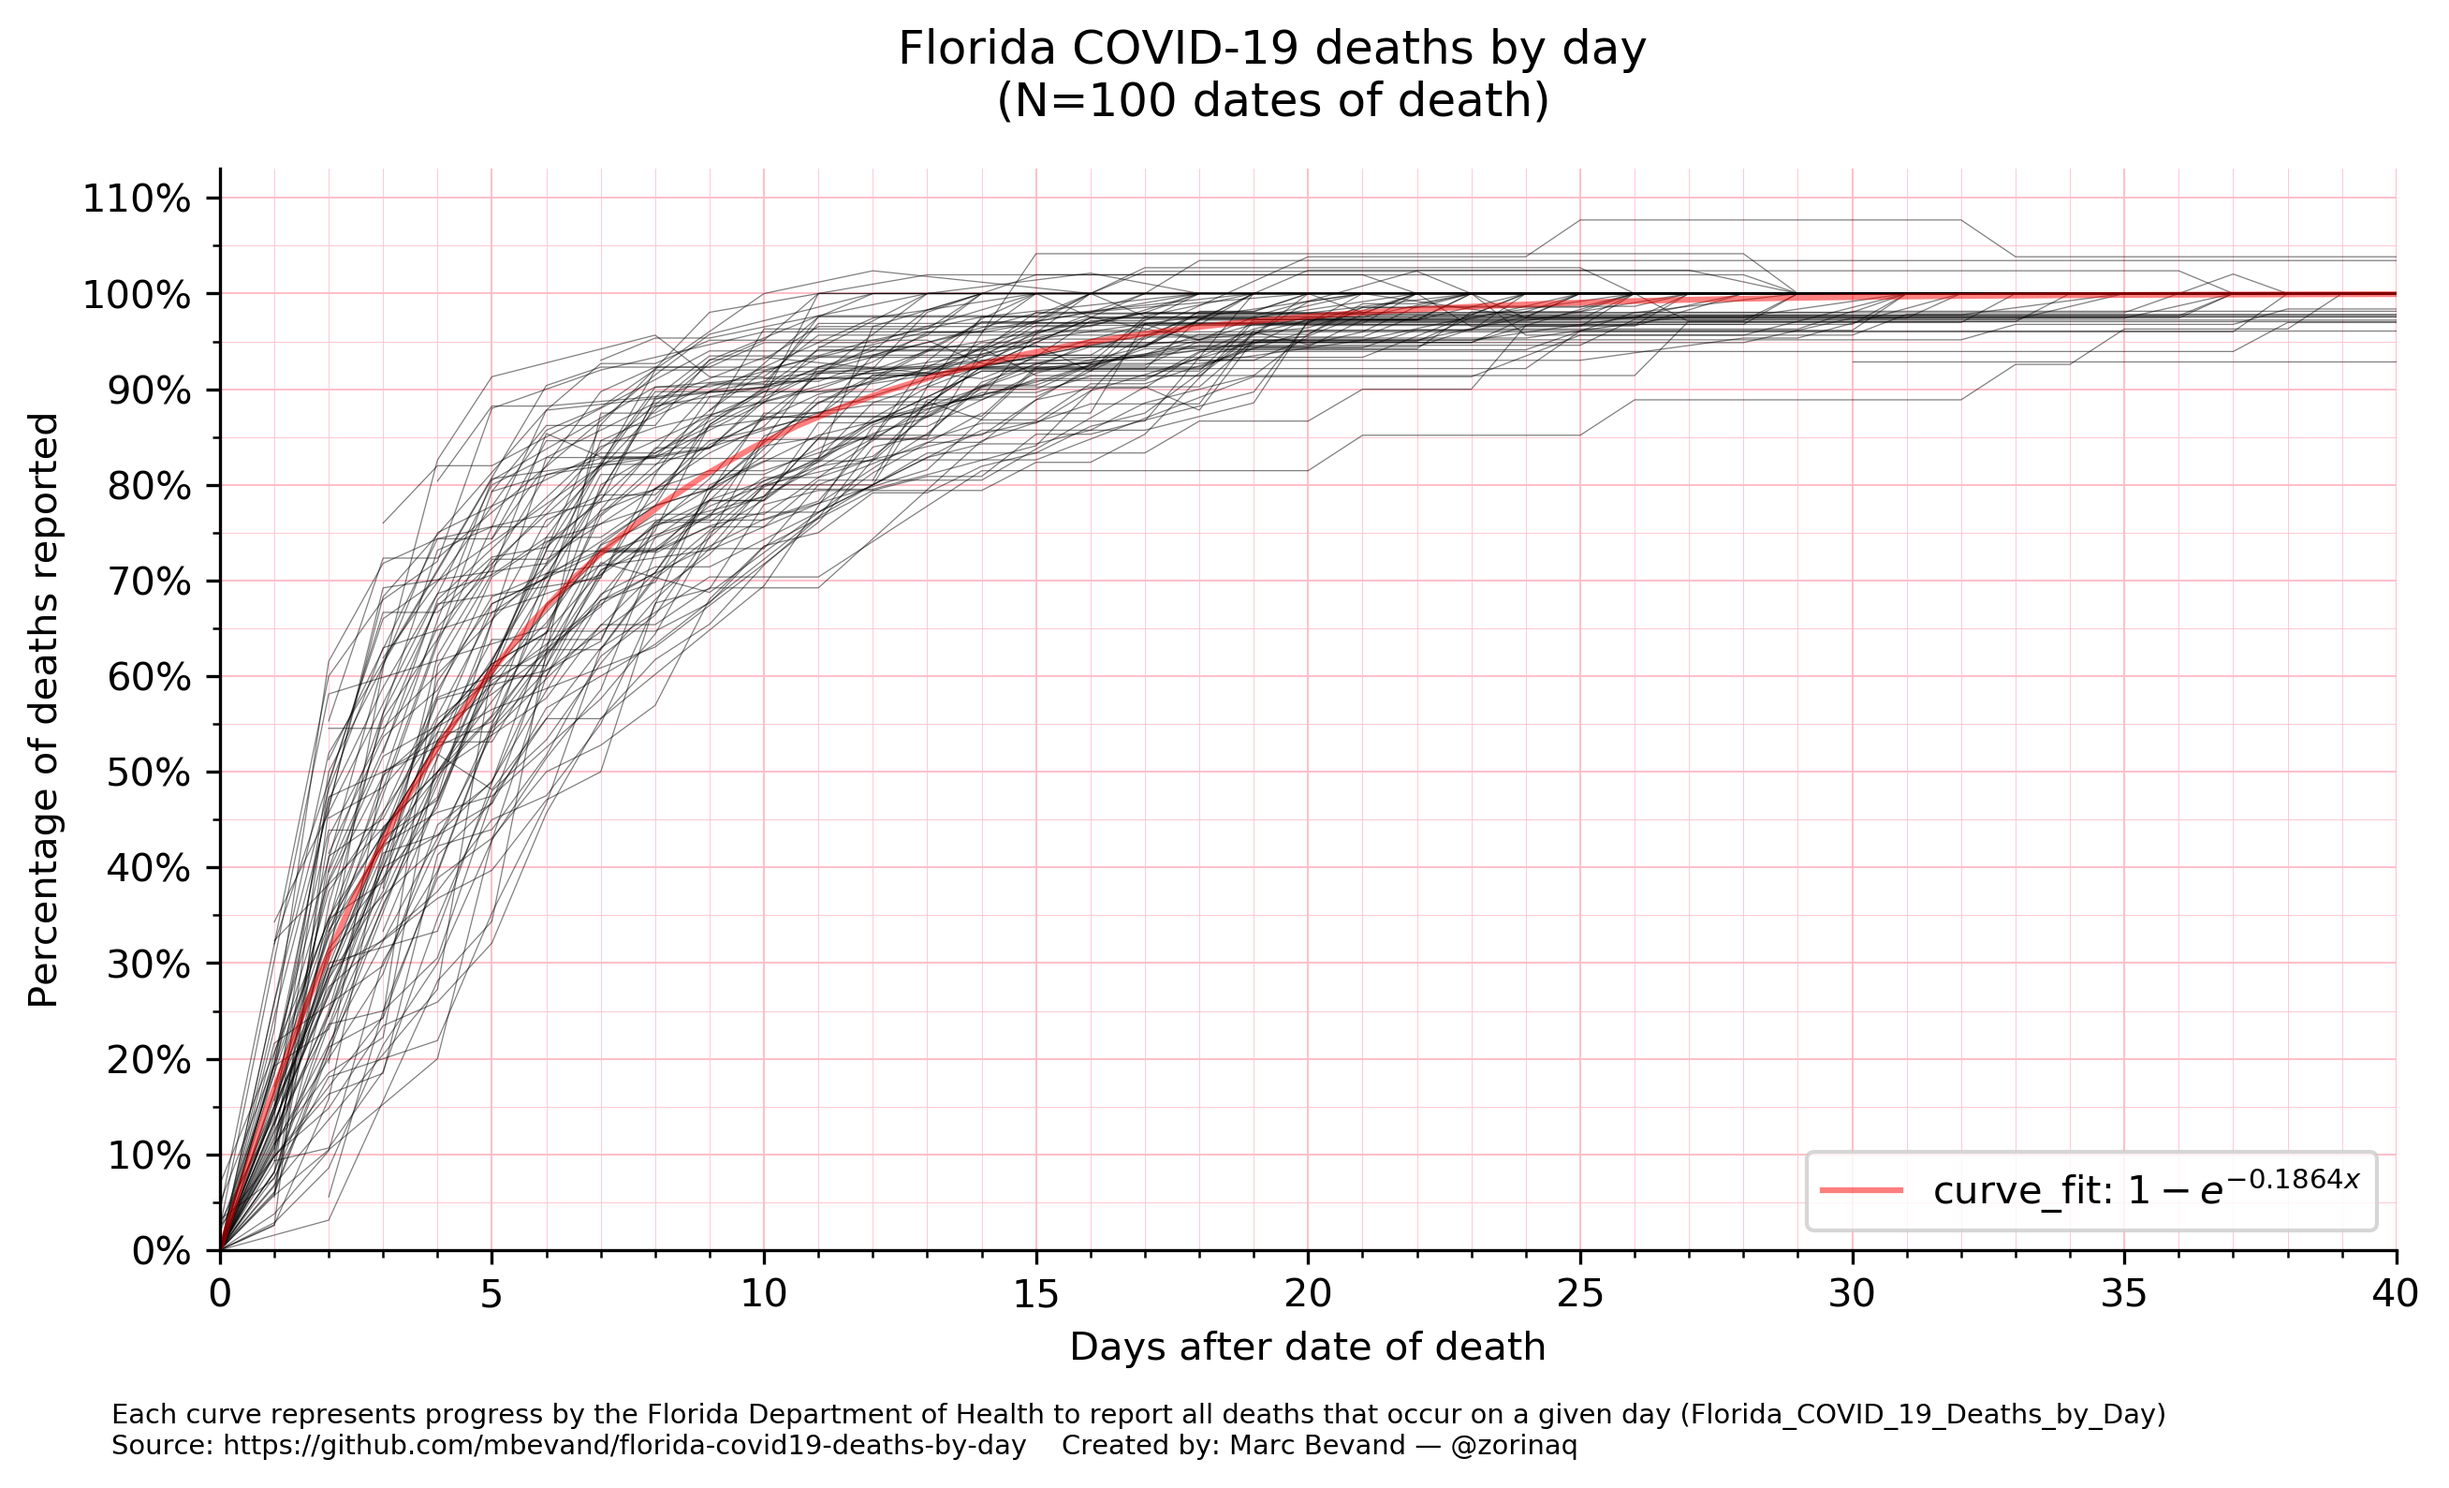
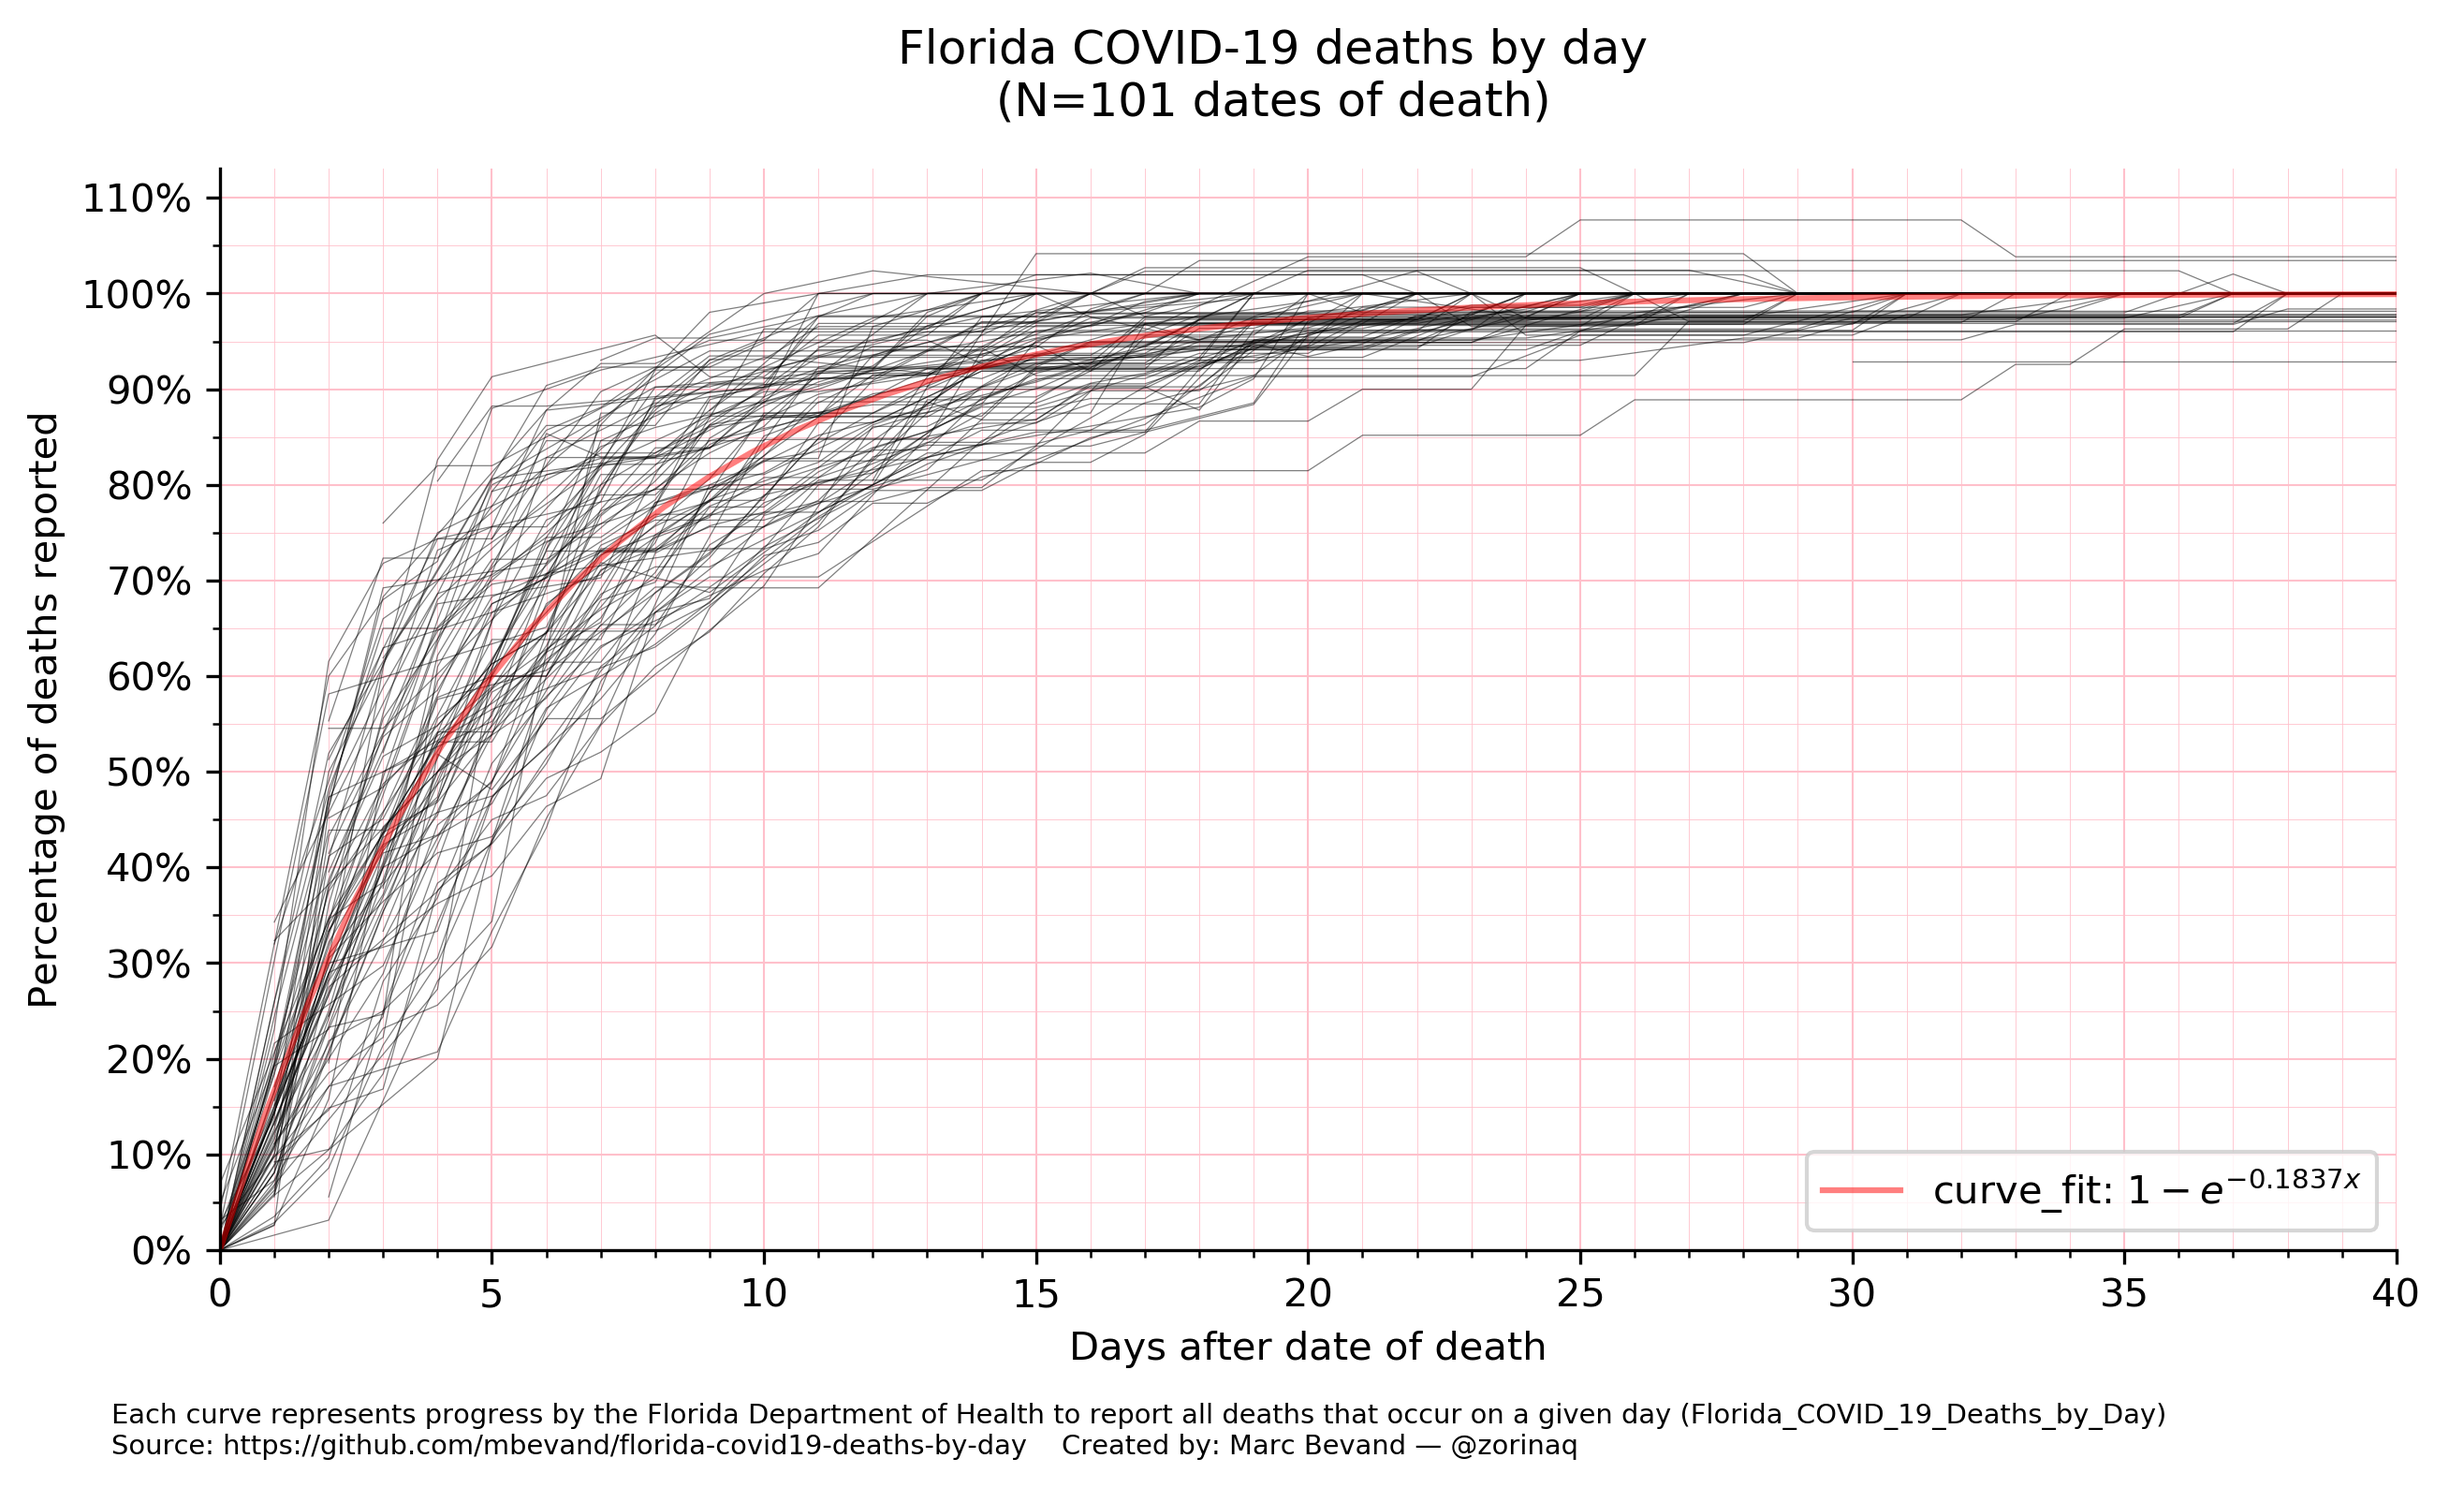
update charts and README

Changed region(s): [[0.0929, 0.185, 0.7431, 0.8326], [0.4644, 0.0617, 0.4954, 0.0925], [0.1548, 0.4009, 0.1858, 0.4317]]

diff --git a/README.md b/README.md
@@ -37,7 +37,7 @@ shows the average reporting delay, and fits an exponential distribution. We see 
 The exponential distribution gives the proportion of deaths that are expected to have been
 reported by *x* days:
 
-*1 - e<sup>-0.1864x</sup>*
+*1 - e<sup>-0.1837x</sup>*
 
 ## Deaths occurred vs deatsh reported
 
